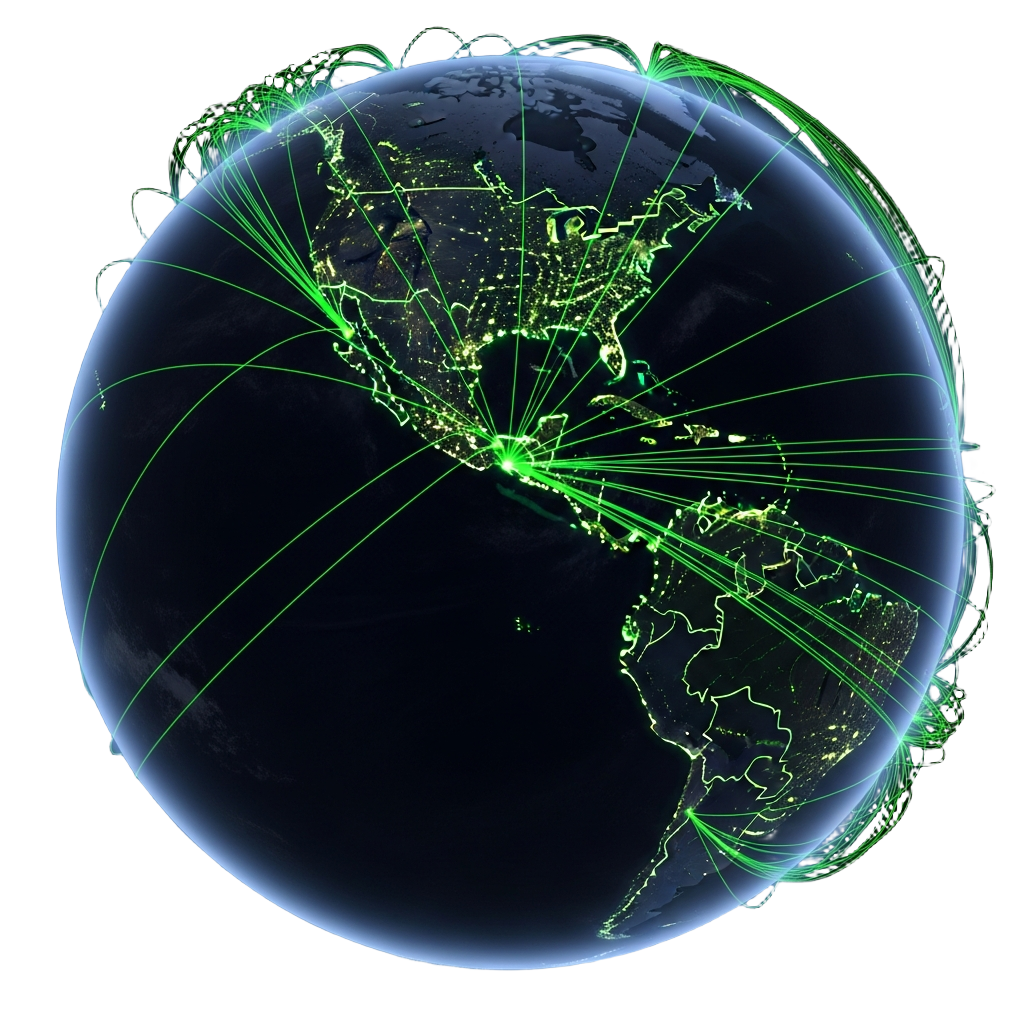
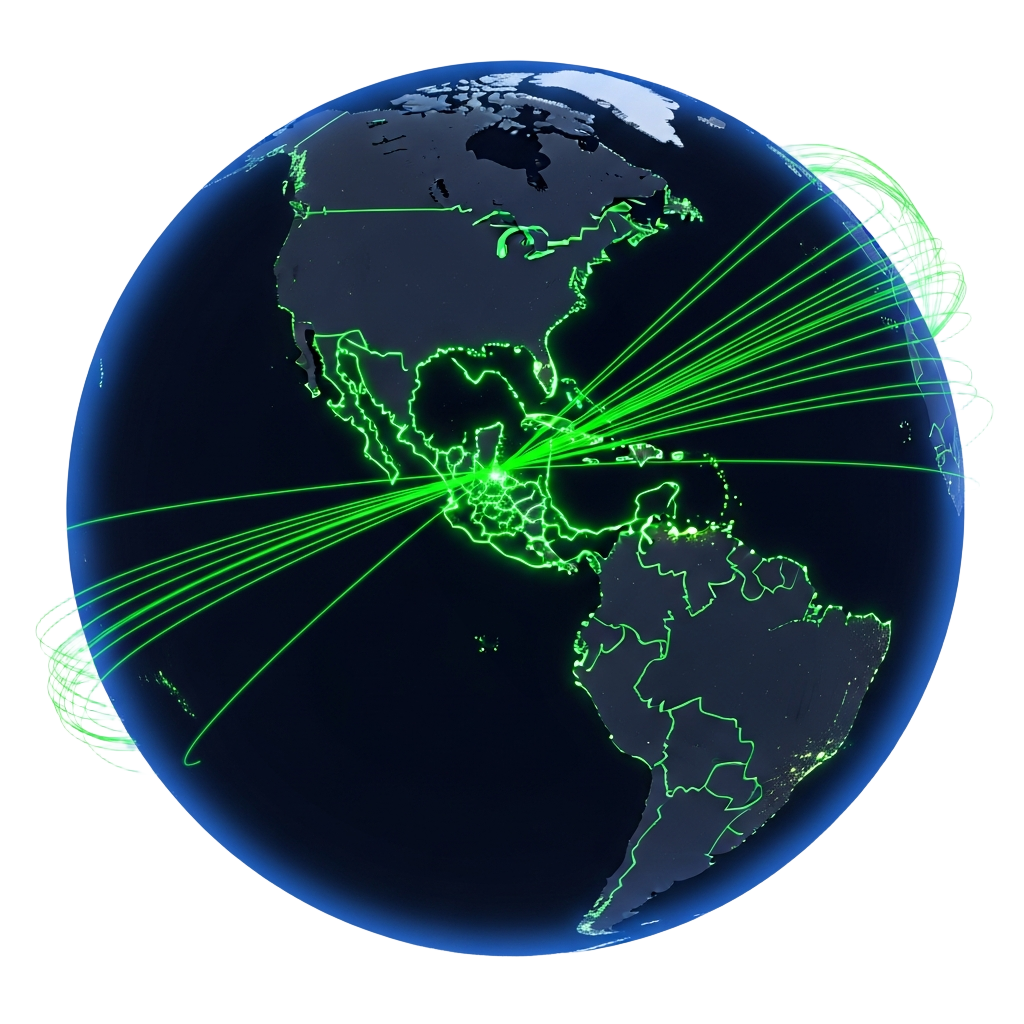
Make globe image blend seamlessly with background
Replace globe image with a transparent PNG and remove unnecessary styling.

Replit-Commit-Author: Agent
Replit-Commit-Session-Id: 8d78f9d7-3ea3-441e-93d5-48d26fd1c048
Replit-Commit-Checkpoint-Type: full_checkpoint
Replit-Commit-Event-Id: b36f61ee-92a0-4f41-b7eb-906432d23db4
Replit-Commit-Screenshot-Url: https://storage.googleapis.com/screenshot-production-us-central1/2c9a03d2-eafd-4979-ac97-d1ce5b78ab33/8d78f9d7-3ea3-441e-93d5-48d26fd1c048/rKQ0UpN
Replit-Helium-Checkpoint-Created: true

diff --git a/artifacts/mexico-charts/src/pages/IndustryLanding.tsx b/artifacts/mexico-charts/src/pages/IndustryLanding.tsx
@@ -92,7 +92,7 @@ export default function IndustryLanding() {
           initial={{ opacity: 0, scale: 0.88 }} animate={{ opacity: 1, scale: 1 }}
           transition={{ duration: 1.2, ease: [0.16, 1, 0.3, 1] }}>
           <img src={globeImg} alt="Globo terráqueo con México destacado" className="w-full h-full object-contain"
-            style={{ mixBlendMode: "screen", filter: "drop-shadow(0 0 40px rgba(57,255,20,0.3))" }} />
+            style={{ filter: "drop-shadow(0 0 50px rgba(57,255,20,0.25))" }} />
         </motion.div>
 
         <div className="absolute top-0 left-0 pointer-events-none"
